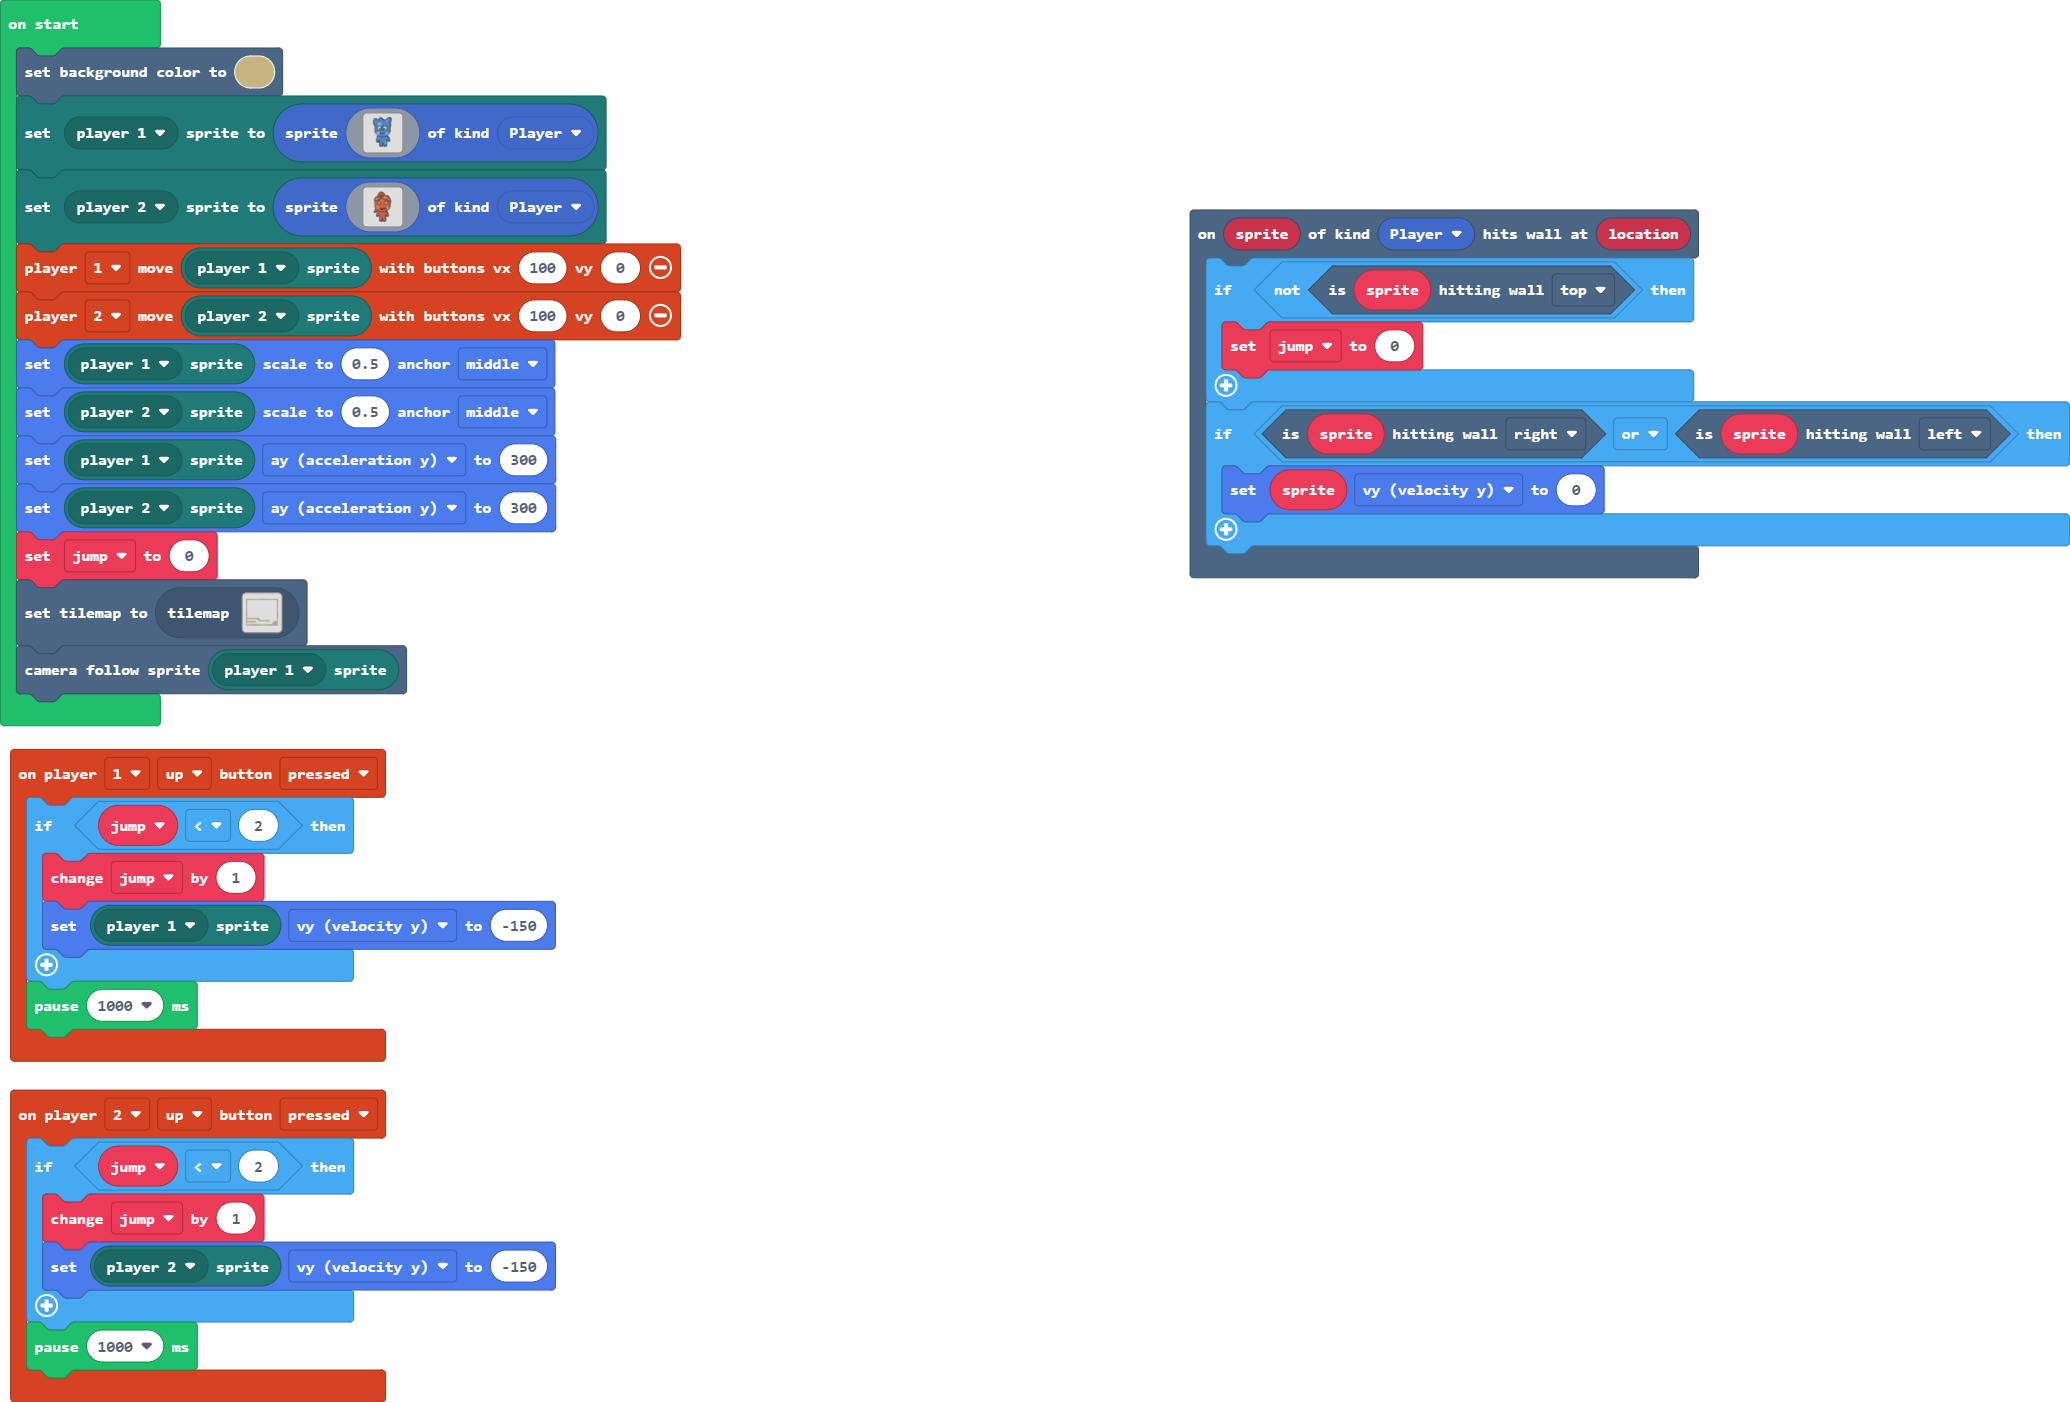
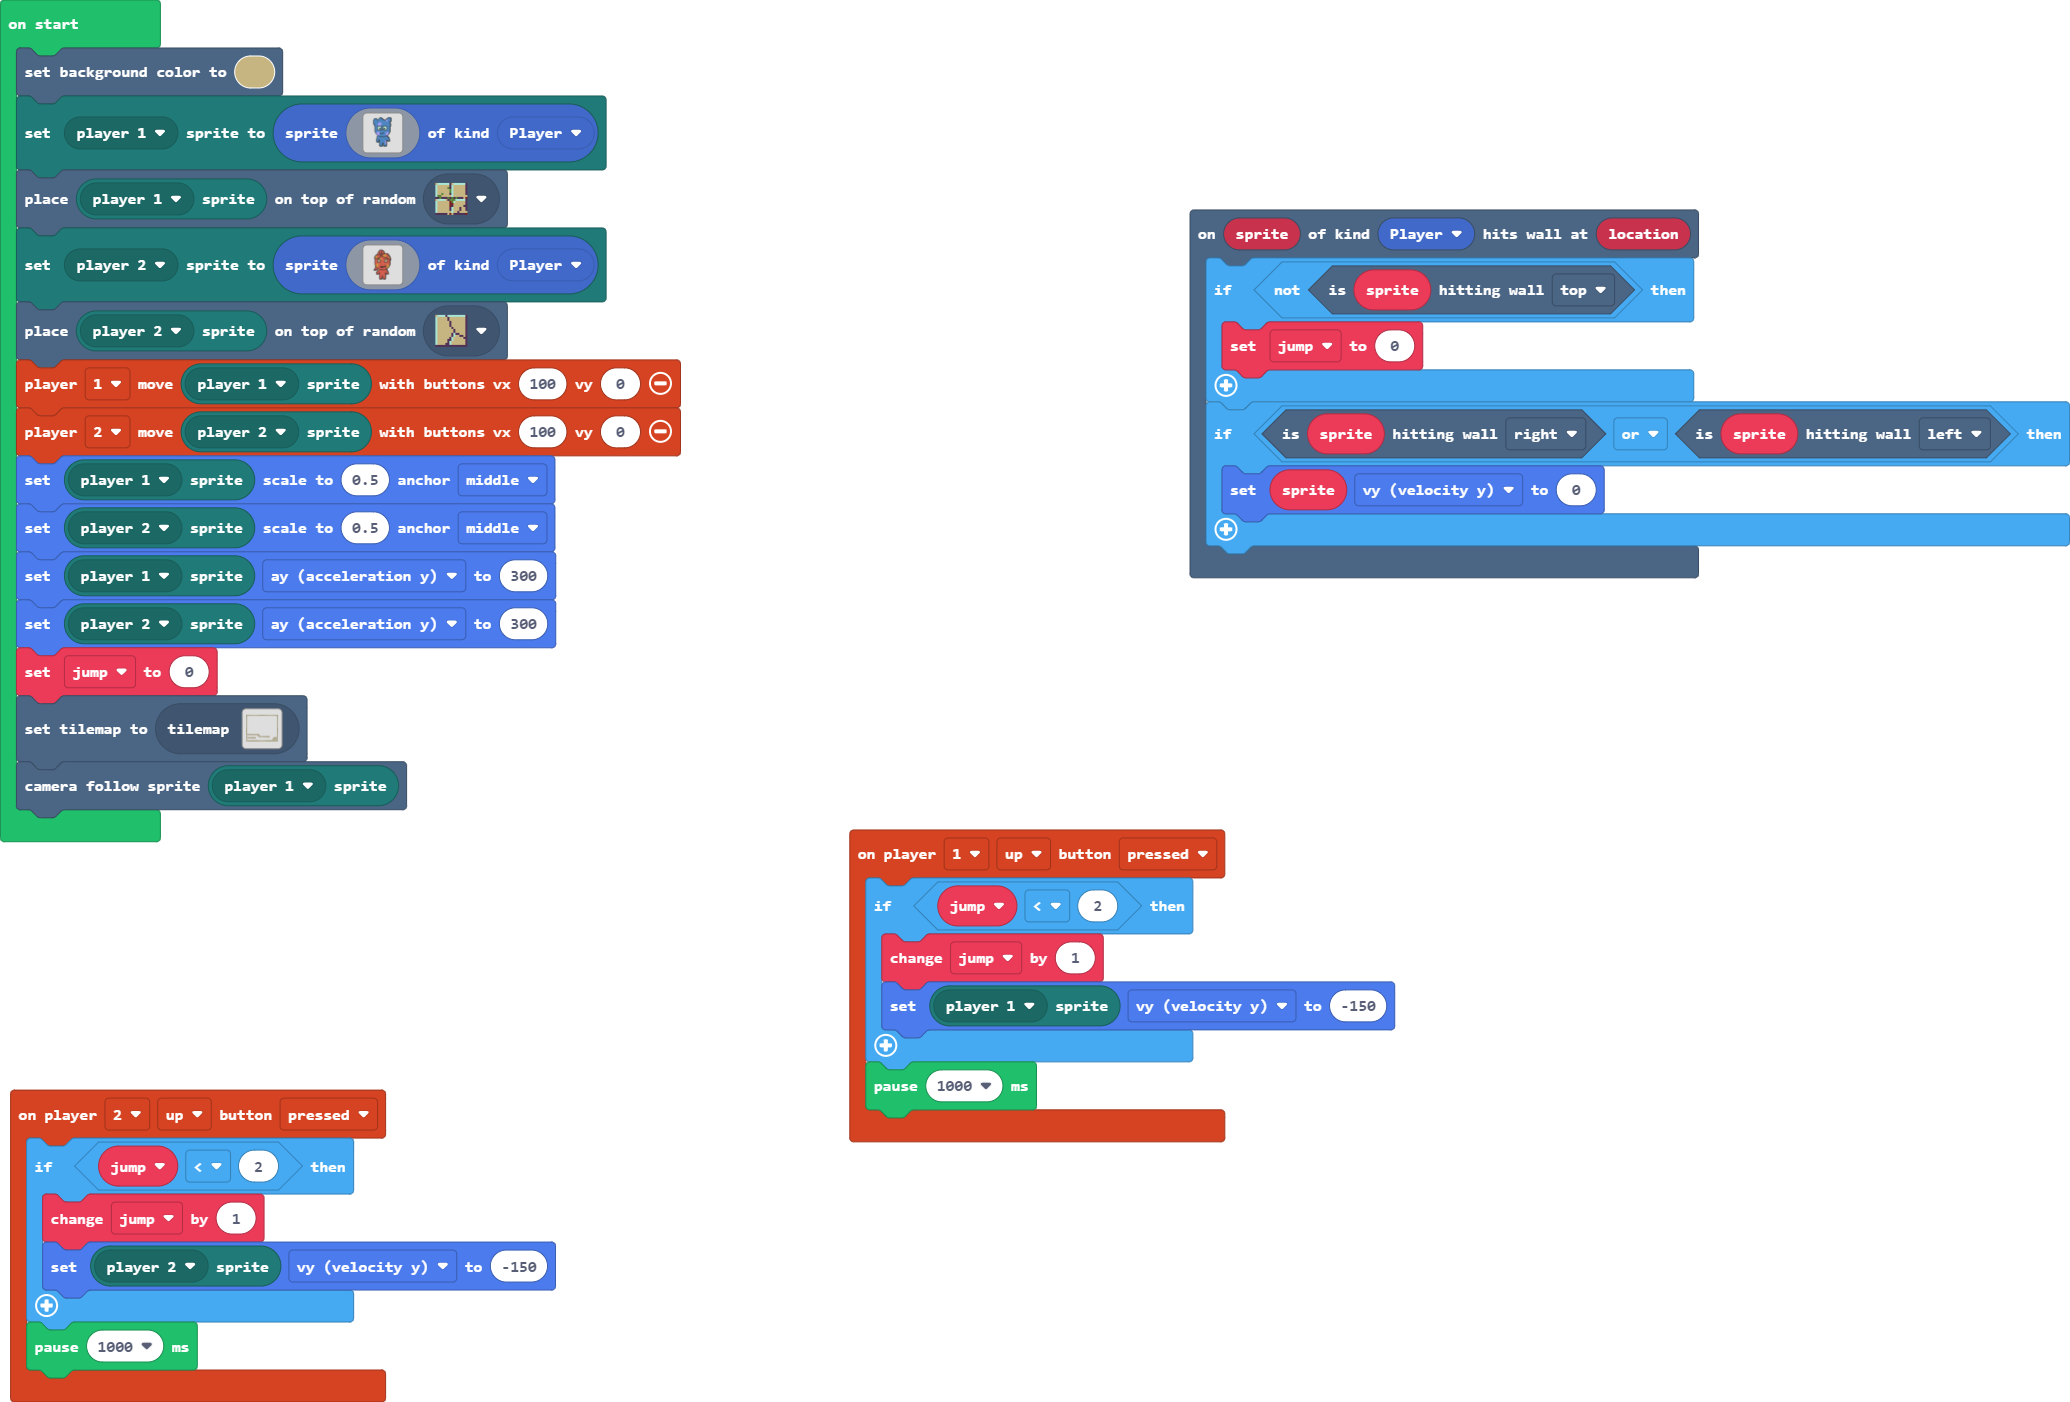
Update main.blocks, main.ts, tilemap.g.jres, tilemap.g.ts

Changed region(s): [[0.0, 0.1227, 0.3401, 0.7668], [0.4019, 0.5827, 0.6802, 0.8281]]

diff --git a/tilemap.g.ts b/tilemap.g.ts
@@ -39,7 +39,7 @@ namespace myTiles {
 ....................
 `, [myTiles.transparency16], TileScale.Sixteen);
             case "level2":
[2 lines of base64/hex data omitted]
 222222222222222222222222222222
 2............................2
 2............................2
@@ -65,7 +65,7 @@ namespace myTiles {
 2........................22222
 2........................22222
 222222222222222222222222222222
-`, [myTiles.transparency16,sprites.dungeon.floorLight0], TileScale.Sixteen);
+`, [myTiles.transparency16,sprites.dungeon.floorLight0,sprites.dungeon.floorLightMoss,sprites.dungeon.floorLight5], TileScale.Sixteen);
         }
         return null;
     })

diff --git a/main.ts b/main.ts
@@ -23,7 +23,9 @@ controller.player2.onButtonEvent(ControllerButton.Up, ControllerButtonEvent.Pres
 let jump = 0
 scene.setBackgroundColor(13)
 mp.setPlayerSprite(mp.playerSelector(mp.PlayerNumber.One), sprites.create(assets.image`myImage1`, SpriteKind.Player))
+tiles.placeOnRandomTile(mp.getPlayerSprite(mp.playerSelector(mp.PlayerNumber.One)), sprites.dungeon.floorLightMoss)
 mp.setPlayerSprite(mp.playerSelector(mp.PlayerNumber.Two), sprites.create(assets.image`myImage0`, SpriteKind.Player))
+tiles.placeOnRandomTile(mp.getPlayerSprite(mp.playerSelector(mp.PlayerNumber.Two)), sprites.dungeon.floorLight5)
 controller.player1.moveSprite(mp.getPlayerSprite(mp.playerSelector(mp.PlayerNumber.One)), 100, 0)
 controller.player2.moveSprite(mp.getPlayerSprite(mp.playerSelector(mp.PlayerNumber.Two)), 100, 0)
 mp.getPlayerSprite(mp.playerSelector(mp.PlayerNumber.One)).setScale(0.5, ScaleAnchor.Middle)
